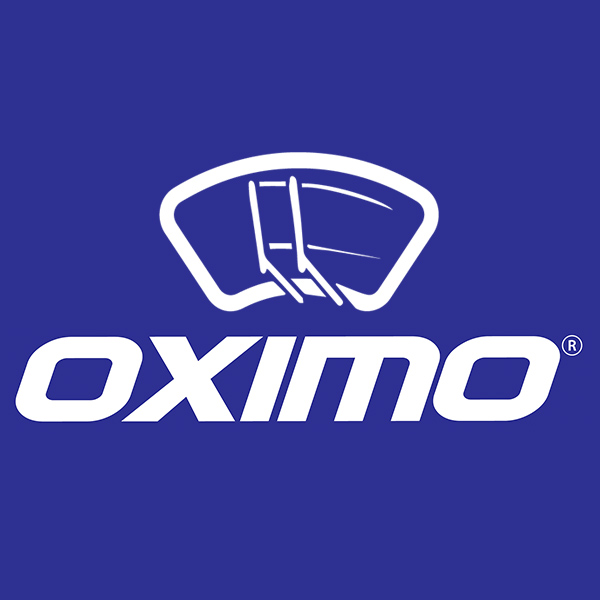
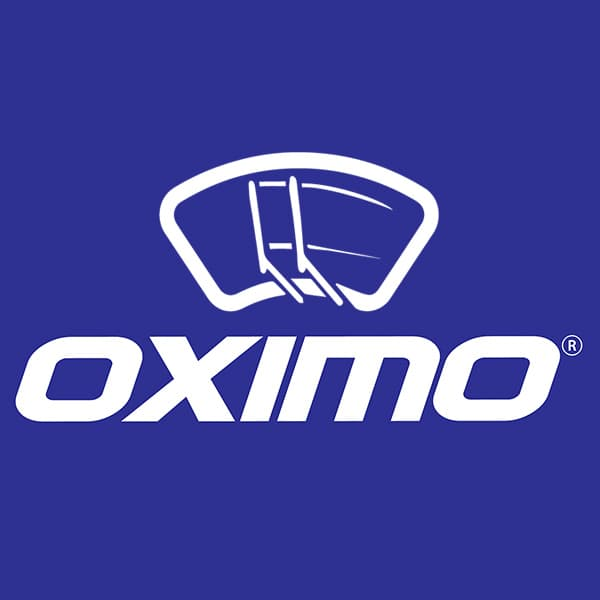
optimization

diff --git a/portfolio.php b/portfolio.php
@@ -1,11 +1,6 @@
 <?php
 include('header.php');
 ?>
- 
-	<h1>
-     Portfolio
-     </h1>
-
 
 
 
@@ -33,7 +28,7 @@ include('header.php');
                     <!-- single work -->
                     <div class="col-md-4 col-sm-6 web">
                         <a href="single-project.html" class="portfolio_item">
-                            <img src="/assets/portfolio/xenum.png" alt="image" class="img-responsive"
+                            <img src="/assets/portfolio/xenum.jpg" alt="image" class="img-responsive"
                                 style="width:100%; height:100%;" />
                             <div class="portfolio_item_hover">
                                 <div class="portfolio-border clearfix">
@@ -84,7 +79,7 @@ include('header.php');
                     <!-- single work -->
                     <div class="col-md-4 col-sm-6 ads">
                         <a href="single-project.html" class="portfolio_item">
-                            <img src="/assets/portfolio/xenum-marketing.png" alt="image" class="img-responsive"
+                            <img src="/assets/portfolio/xenum-marketing.jpg" alt="image" class="img-responsive"
                                 style="width:100%; height:100%;" />
                             <div class="portfolio_item_hover">
                                 <div class="portfolio-border clearfix">
@@ -118,7 +113,7 @@ include('header.php');
                     <!-- single work -->
                     <div class="col-md-4 col-sm-12 ads">
                         <a href="single-project.html" class="portfolio_item">
-                            <img src="/assets/portfolio/oximo-marketing.png" alt="image" class="img-responsive"
+                            <img src="/assets/portfolio/oximo-marketing.jpg" alt="image" class="img-responsive"
                                 style="width:100%; height:100%;" />
                             <div class="portfolio_item_hover">
                                 <div class="portfolio-border clearfix">
@@ -146,7 +141,7 @@ include('header.php');
     
 
     <!-- back to top -->
-    <a href="#0" class="cd-top"><i class="ion-android-arrow-up"></i></a>
+    <!-- <a href="#0" class="cd-top"><i class="ion-android-arrow-up"></i></a> -->
     <!-- end back to top -->
 
 
